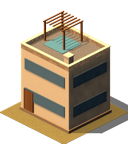
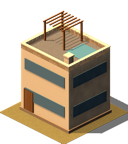
fix(isokit): move the roof pool clear of the pergola posts

Changed region(s): [[0.3438, 0.2222, 0.75, 0.4167]]

diff --git a/Tools/IsoKit/Sources/IsoKitCore/Recipes/AgeRecipes.swift b/Tools/IsoKit/Sources/IsoKitCore/Recipes/AgeRecipes.swift
@@ -335,8 +335,8 @@ extension Recipes {
             chimney: .plasterPale,
             extras: { kit, box in
                 if box.tier == 2 { kit.block(
-                    SCNVector3(box.lo.x + 1.0, box.top, box.lo.z + 1.0),
-                    SCNVector3(box.lo.x + 3.4, box.top + 0.08, box.lo.z + 3.4),
+                    SCNVector3(box.lo.x + 3.4, box.top, box.lo.z + 0.8),
+                    SCNVector3(box.hi.x - 0.6, box.top + 0.08, box.lo.z + 3.0),
                     .paint(AgePalette.pool)
                 ) }
                 if box.tier == 3 { kit.balconies(box) } else { kit.colonnadePergola(box) }
